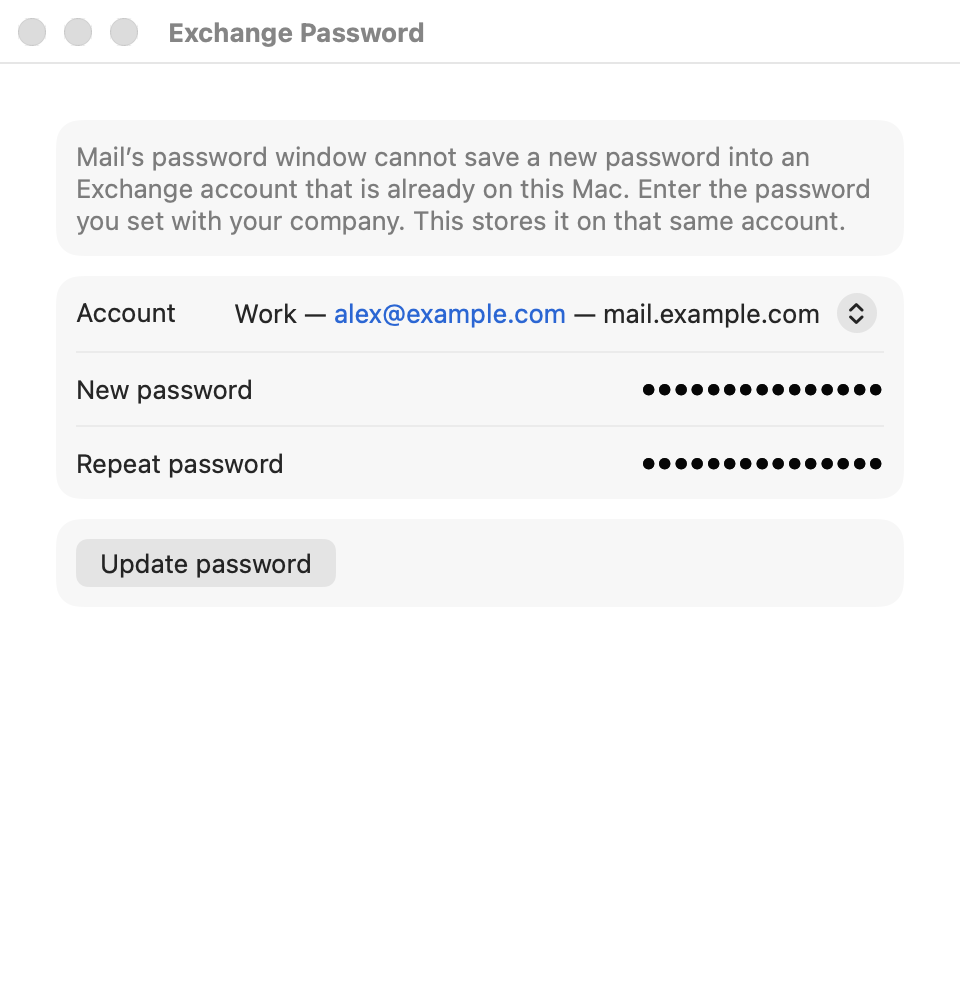
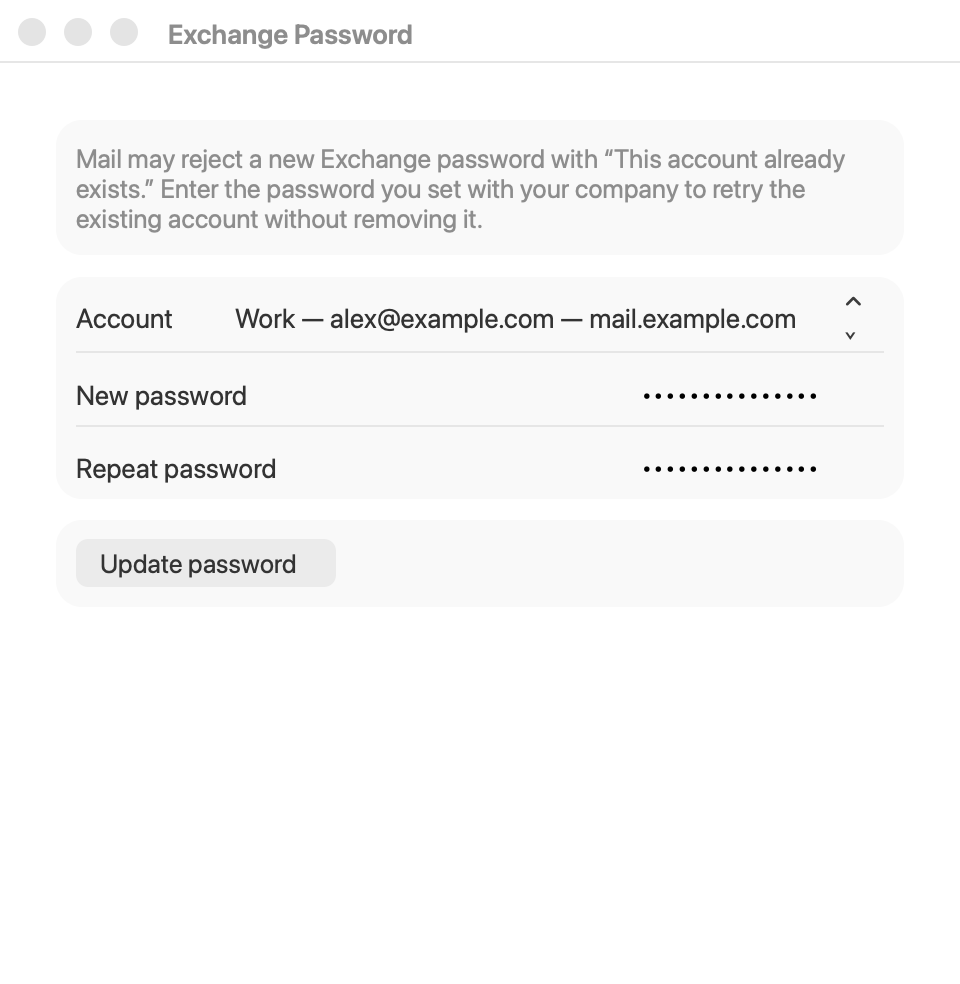
Remove nonexistent Internet Accounts approval path

diff --git a/Sources/MailPassword.swift b/Sources/MailPassword.swift
@@ -5,7 +5,7 @@ enum UpdateError: Error {
     case message(String)
 }
 
-/// Writes a new password into the Exchange account Mail already has.
+/// Asks Mail to store a new password on its existing Exchange account.
 enum MailPassword {
     @MainActor
     static func update(_ account: ExchangeAccount, password: String) async throws -> String {
@@ -14,9 +14,10 @@ enum MailPassword {
         if await storedPermanently(since: started) {
             return confirmation(account)
         }
-        NSWorkspace.shared.open(URL(string: internetAccountsURL)!)
-        return "macOS stored the new password only temporarily. In the Internet Accounts "
-            + "window that opened, select \(account.name) and approve the change to keep it."
+        throw UpdateError.message(
+            "macOS kept the password only temporarily. Internet Accounts has no approval "
+                + "that can make it permanent; its password form reaches the same “account already exists” error."
+        )
     }
 
     private static func validate(_ password: String) throws {
@@ -52,7 +53,7 @@ enum MailPassword {
     }
 
     /// A credential change with no scheduled removal means macOS kept the password.
-    /// A removal marker means it saved only a temporary copy that needs the user’s approval.
+    /// A removal marker means it saved only a temporary copy.
     private static func storedPermanently(since start: Date) async -> Bool {
         var changed = false
         for attempt in 0..<4 {
@@ -177,8 +178,6 @@ private func logOutput(since start: Date) -> String {
     waitForExit(task)
     return String(data: pipe.fileHandleForReading.readDataToEndOfFile(), encoding: .utf8) ?? ""
 }
-
-private let internetAccountsURL = "x-apple.systempreferences:com.apple.Internet-Accounts-Settings.extension"
 
 private let logPredicate = "process == \"accountsd\" AND (eventMessage CONTAINS \"property credential changed\""
     + " OR eventMessage CONTAINS \"will remove later\" OR eventMessage CONTAINS \"cleanup activity credential removal\")"

diff --git a/Sources/ExchangePasswordApp.swift b/Sources/ExchangePasswordApp.swift
@@ -47,7 +47,7 @@ struct PasswordScreen: View {
     var body: some View {
         Form {
             Section {
-                Text("Mail’s password window cannot save a new password into an Exchange account that is already on this Mac. Enter the password you set with your company. This stores it on that same account.")
+                Text("Mail may reject a new Exchange password with “This account already exists.” Enter the password you set with your company to retry the existing account without removing it.")
                     .foregroundStyle(.secondary)
                     .fixedSize(horizontal: false, vertical: true)
             }

diff --git a/README.md b/README.md
@@ -2,7 +2,7 @@
 
 After a company password change, macOS Mail may reject the new Exchange password with “This account already exists.” The usual workaround is to remove and recreate the account.
 
-This utility stores the new password in the macOS keychain for the existing account. Mail can reconnect without removing the account, changing its settings, or downloading its data again.
+This utility asks Mail to store the new password on the existing account. If macOS accepts it, Mail reconnects without removing the account, changing its settings, or downloading its data again.
 
 It does not change your company password. Use it after changing that password through your company.
 
@@ -14,7 +14,7 @@ Download the DMG from [Releases](https://github.com/adrianov/macos-exchange-pass
 
 Choose the Exchange account, enter its new password twice, and click **Update password**. On the first run, allow control of Mail and System Events in **System Settings → Privacy & Security → Automation**.
 
-If macOS keeps the password only temporarily, the app opens **System Settings → Internet Accounts**. Select the account there and approve the change so macOS stores it for good.
+Some macOS versions keep the password only temporarily and reject the permanent save with the same “account already exists” error. Internet Accounts has no separate approval for this case; removing and adding the account again remains the system workaround.
 
 ## Build from source
 
